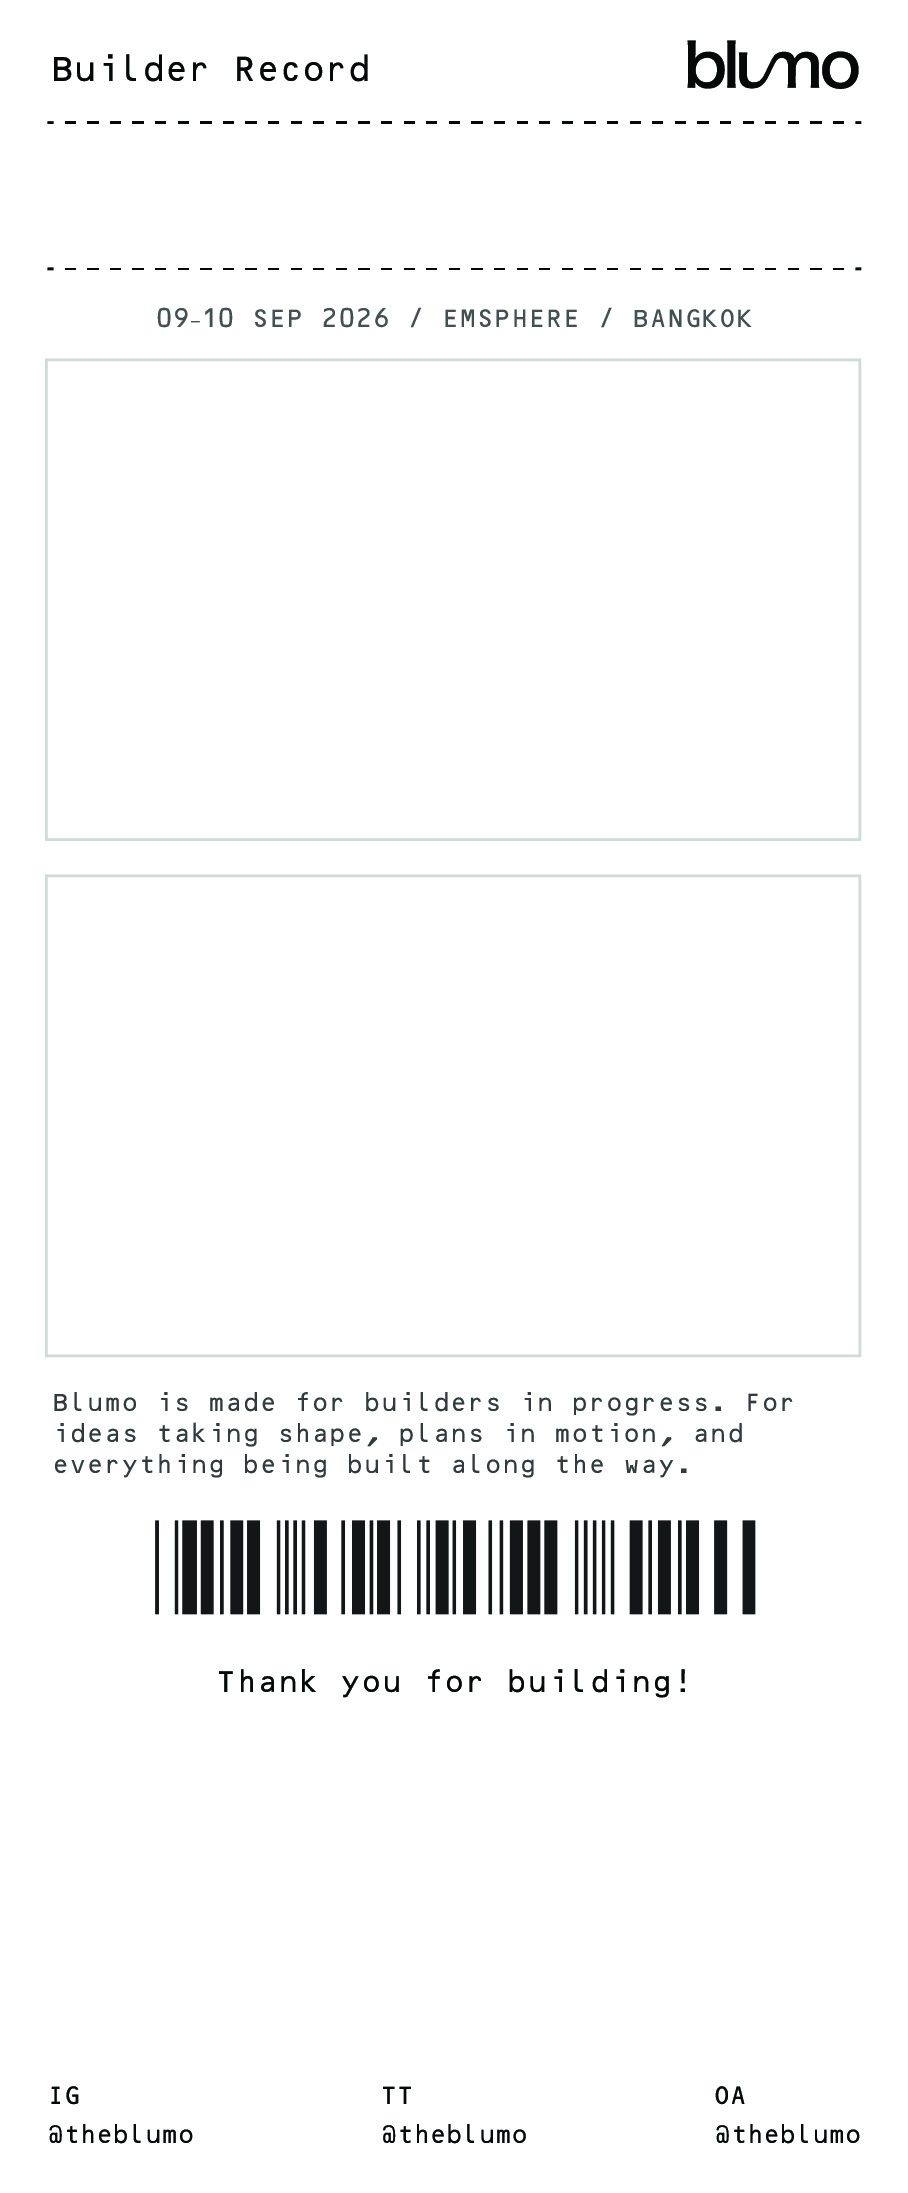
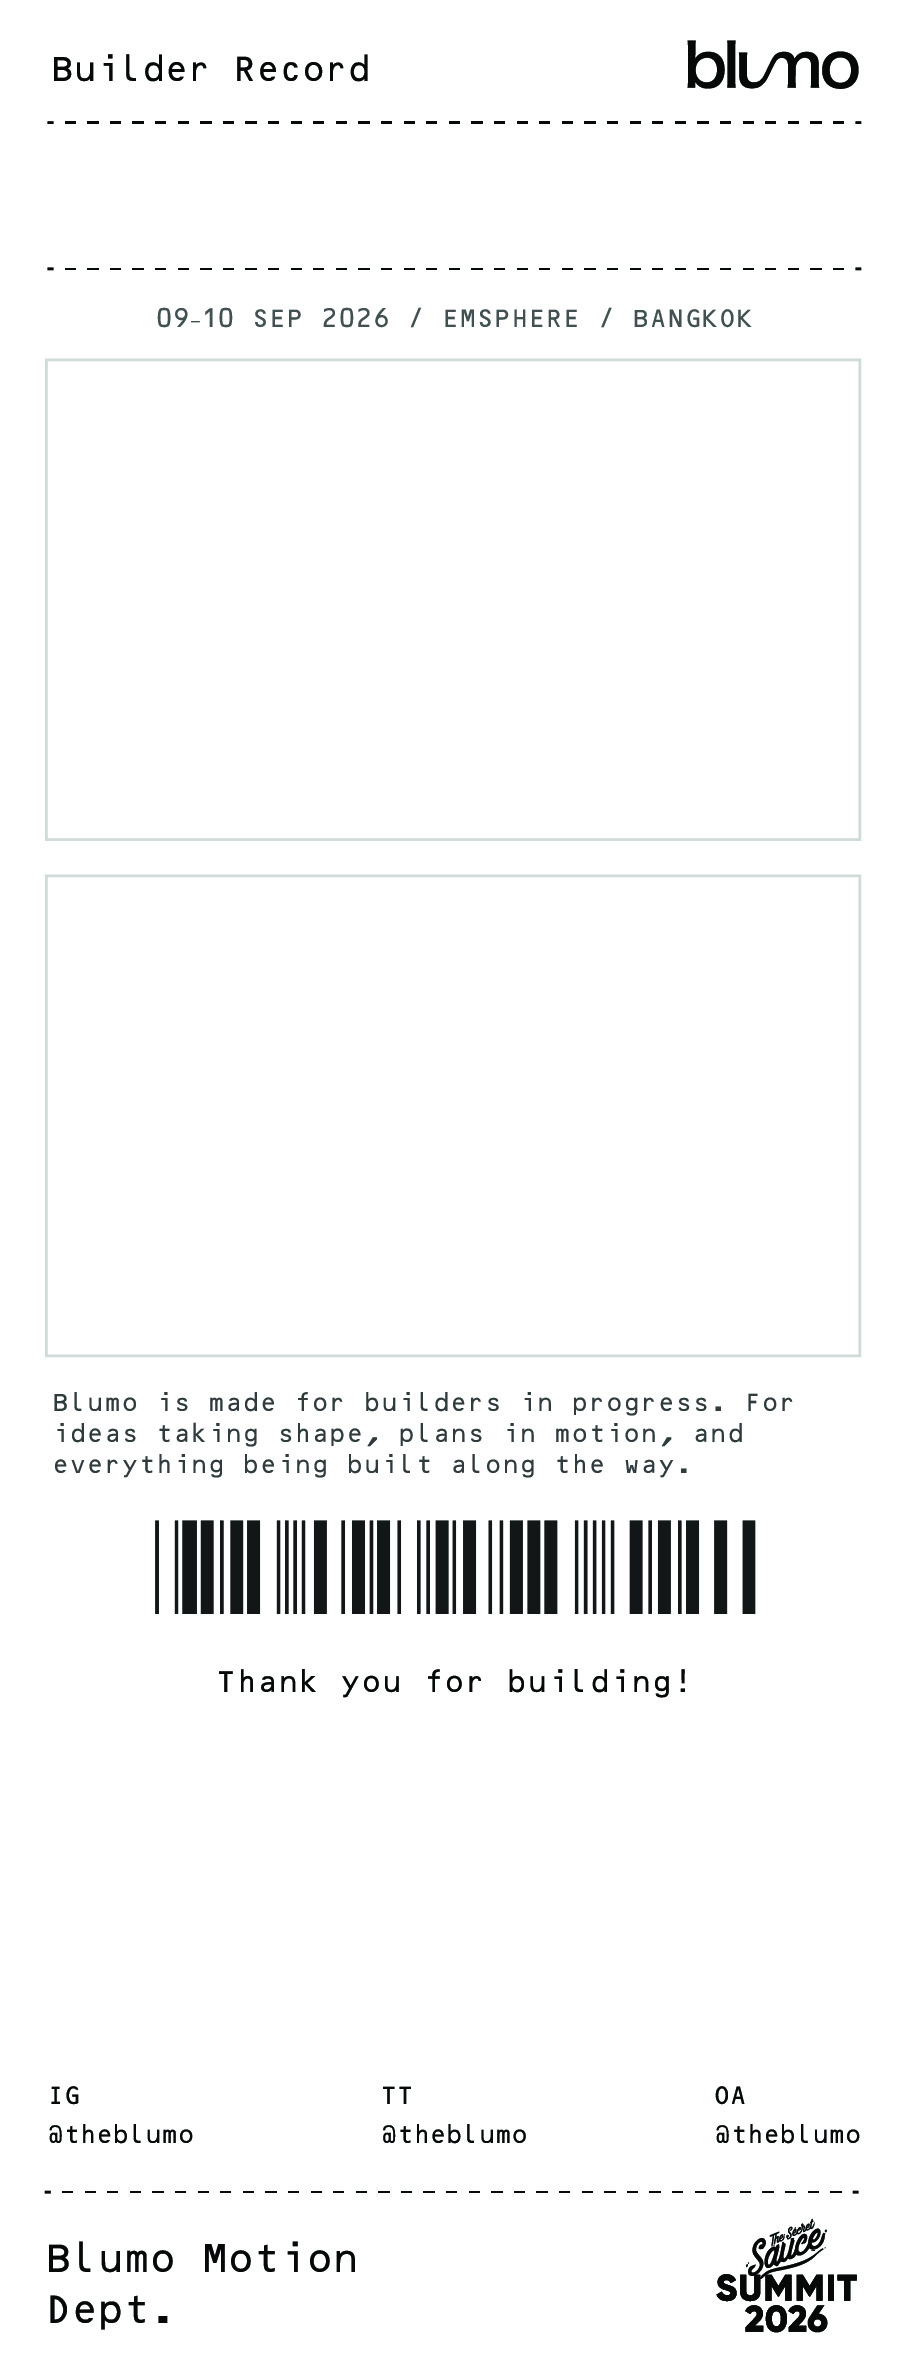
Release The Blumo v1.4 with unified preview/print overlays and taller artwork.
Print now uses the same name, photo, and QR slot settings as preview with only the frame-select background differing, including QR vertical scaling and shared overlay compositing.

diff --git a/frontend/js/composite.js b/frontend/js/composite.js
@@ -70,13 +70,32 @@ function getPhotoSlotBleed(canvasWidth) {
 
 function resolveSlotForDraw(slot, previewMode = false) {
   if (!previewMode) return slot;
+  const top = slot.previewTop ?? slot.top;
+  const height = slot.previewHeight ?? slot.height;
+  const scaleV =
+    typeof scalePreviewMockVerticalPct === "function"
+      ? scalePreviewMockVerticalPct
+      : (pct) => pct;
   return {
     ...slot,
     left: slot.previewLeft ?? slot.left,
-    top: slot.previewTop ?? slot.top,
+    top: scaleV(top),
     width: slot.previewWidth ?? slot.width,
-    height: slot.previewHeight ?? slot.height,
+    height: scaleV(height),
   };
+}
+
+function getPreviewContentShiftPct(previewMode) {
+  if (!previewMode) return 0;
+  return typeof getTheBlumoPreviewContentShiftUpPct === "function"
+    ? getTheBlumoPreviewContentShiftUpPct()
+    : 0;
+}
+
+function getPreviewQrShiftPct() {
+  return typeof getTheBlumoPreviewQrShiftUpPct === "function"
+    ? getTheBlumoPreviewQrShiftUpPct()
+    : 0;
 }
 
 function slotToDrawRect(
@@ -85,14 +104,16 @@ function slotToDrawRect(
   canvasHeight,
   offsetX = 0,
   offsetY = 0,
-  layoutReference = null
+  layoutReference = null,
+  previewShiftPct = 0
 ) {
   const refW = layoutReference?.width ?? canvasWidth;
   const refH = layoutReference?.height ?? canvasHeight;
   let x = (slot.left / 100) * refW + offsetX;
-  let y = (slot.top / 100) * refH + offsetY;
+  let y = (slot.top / 100) * refH + offsetY - (previewShiftPct / 100) * refH;
   let w = (slot.width / 100) * refW;
   let h = (slot.height / 100) * refH;
+  y = Math.max(0, y);
 
   const canBleed = slot.fit !== "contain" && !slot.noBleed;
   if (canBleed) {
@@ -388,13 +409,15 @@ async function drawPhotosInSlots(
     const photo = await loadImage(photos[i]);
     const drawSlot = resolveSlotForDraw(slot, options.previewMode);
     const slotOffsetY = options.slotOffsetY || 0;
+    const shiftPct = getPreviewContentShiftPct(options.previewMode);
     const { x, y, w, h } = slotToDrawRect(
       drawSlot,
       canvasWidth,
       canvasHeight,
       0,
       slotOffsetY,
-      options.layoutReference
+      options.layoutReference,
+      shiftPct
     );
     const rotation = slot.rotation || 0;
     const fit = drawSlot.fit || "cover";
@@ -456,14 +479,24 @@ async function drawTheBlumoGuestName(ctx, canvasWidth, canvasHeight, offsetY = 0
       : null;
   if (!slot) return;
 
-  const topPct =
+  const topPctRaw =
     options.previewMode && slot.previewTop != null ? slot.previewTop : slot.top;
-  const heightPct =
+  const heightPctRaw =
     options.previewMode && slot.previewHeight != null ? slot.previewHeight : slot.height;
+  const scaleV =
+    options.previewMode && typeof scalePreviewMockVerticalPct === "function"
+      ? scalePreviewMockVerticalPct
+      : (pct) => pct;
+  const topPct = scaleV(topPctRaw);
+  const heightPct = scaleV(heightPctRaw);
   const refW = options.layoutReference?.width ?? canvasWidth;
   const refH = options.layoutReference?.height ?? canvasHeight;
+  const shiftPct = getPreviewContentShiftPct(options.previewMode);
   let x = (slot.left / 100) * refW;
-  const y = (topPct / 100) * refH + offsetY;
+  let y = Math.max(
+    0,
+    (topPct / 100) * refH + offsetY - (shiftPct / 100) * refH
+  );
   let w = (slot.width / 100) * refW;
   const h = (heightPct / 100) * refH;
 
@@ -530,10 +563,16 @@ async function drawTheBlumoPreviewQR(ctx, layoutId, qrDataUrl, canvasWidth, canv
 
   const refW = layoutReference?.width ?? canvasWidth;
   const refH = layoutReference?.height ?? canvasHeight;
+  const shiftPct = getPreviewQrShiftPct();
+  const scaleV =
+    typeof scalePreviewMockVerticalPct !== "function"
+      ? (pct) => pct
+      : scalePreviewMockVerticalPct;
   const slotX = (slot.left / 100) * refW;
-  const slotY = (slot.top / 100) * refH;
+  const slotTopPct = scaleV(slot.top);
+  const slotY = Math.max(0, (slotTopPct / 100) * refH - (shiftPct / 100) * refH);
   const slotW = (slot.width / 100) * refW;
-  const slotH = ((slot.height ?? slot.width) / 100) * refH;
+  const slotH = ((scaleV(slot.height ?? slot.width)) / 100) * refH;
   const scale = slot.scale ?? 1;
   const size = Math.min(slotW, slotH) * scale;
   const x = slotX + (slotW - size) / 2;
@@ -598,6 +637,41 @@ async function uploadPreviewDownloadInBackground(canvas, downloadId) {
   }
 }
 
+async function drawTheBlumoPreviewOverlays(
+  ctx,
+  frameConfig,
+  photos,
+  canvasWidth,
+  canvasHeight,
+  options = {}
+) {
+  const layoutReference = options.layoutReference ?? null;
+  const drawPhotoFn = options.drawPhotoFn ?? drawImageCover;
+
+  await drawTheBlumoGuestName(ctx, canvasWidth, canvasHeight, options.offsetY ?? 0, {
+    eraseBackground: options.eraseBackground ?? false,
+    previewMode: true,
+    frameConfig,
+    layoutReference,
+  });
+  await drawPhotosInSlots(ctx, frameConfig, photos, canvasWidth, canvasHeight, drawPhotoFn, {
+    previewMode: true,
+    layoutReference,
+    slotOffsetY: options.slotOffsetY ?? 0,
+  });
+
+  if (PREVIEW_QR_ON_RECEIPT_ENABLED && options.qrCodeUrl) {
+    await drawTheBlumoPreviewQR(
+      ctx,
+      frameConfig.id,
+      options.qrCodeUrl,
+      canvasWidth,
+      canvasHeight,
+      layoutReference
+    );
+  }
+}
+
 async function drawFrameAndPhotos(ctx, frameConfig, photos, canvasWidth, canvasHeight, options = {}) {
   const usePreviewSlots = Boolean(options.usePreviewSlots ?? options.useLayoutMock);
 
@@ -610,6 +684,18 @@ async function drawFrameAndPhotos(ctx, frameConfig, photos, canvasWidth, canvasH
 
   const frameImg = await loadImage(frameSrc);
   ctx.drawImage(frameImg, 0, 0, canvasWidth, canvasHeight);
+
+  if (
+    usePreviewSlots &&
+    typeof isTheBlumoBoothActive === "function" &&
+    isTheBlumoBoothActive()
+  ) {
+    await drawTheBlumoPreviewOverlays(ctx, frameConfig, photos, canvasWidth, canvasHeight, {
+      eraseBackground: options.eraseGuestNameBackground !== false,
+      qrCodeUrl: options.qrCodeUrl,
+    });
+    return;
+  }
 
   await drawTheBlumoGuestName(ctx, canvasWidth, canvasHeight, 0, {
     eraseBackground: options.eraseGuestNameBackground !== false,
@@ -897,27 +983,18 @@ async function drawTheBlumoPrintComposite(canvas, frameConfig, photos, options =
   const frameImg = await loadImage(frameSrc);
   const frameW = frameImg.naturalWidth;
   const frameH = frameImg.naturalHeight;
-  const drawPhotoFn = thermal ? drawImageCoverForPrint : drawImageCover;
 
   canvas.width = frameW;
   canvas.height = frameH;
   const ctx = canvas.getContext("2d");
   ctx.drawImage(frameImg, 0, 0);
 
-  await drawTheBlumoGuestName(ctx, frameW, frameH, 0, {
+  await drawTheBlumoPreviewOverlays(ctx, frameConfig, photos, frameW, frameH, {
+    layoutReference: layoutRef,
+    drawPhotoFn: thermal ? drawImageCoverForPrint : drawImageCover,
+    qrCodeUrl,
     eraseBackground: false,
-    previewMode: true,
-    frameConfig,
-    layoutReference: layoutRef,
   });
-  await drawPhotosInSlots(ctx, frameConfig, photos, frameW, frameH, drawPhotoFn, {
-    previewMode: true,
-    layoutReference: layoutRef,
-  });
-
-  if (PREVIEW_QR_ON_RECEIPT_ENABLED && qrCodeUrl) {
-    await drawTheBlumoPreviewQR(ctx, frameConfig.id, qrCodeUrl, frameW, frameH, layoutRef);
-  }
 
   console.info(
     `[composite] theblumo frame-select full ${frameW}x${frameH} thermal=${thermal} previewSlots=true src=${frameSrc}`
@@ -964,24 +1041,16 @@ async function drawComposite(canvas, frameConfig, photos, options = {}) {
     usePreviewSlots: useLayoutMock,
     frameSrc,
     eraseGuestNameBackground: !useLayoutMock,
+    qrCodeUrl:
+      isPreview &&
+      PREVIEW_QR_ON_RECEIPT_ENABLED &&
+      options.qrCodeUrl &&
+      useLayoutMock &&
+      typeof isTheBlumoBoothActive === "function" &&
+      isTheBlumoBoothActive()
+        ? options.qrCodeUrl
+        : null,
   });
-
-  if (
-    isPreview &&
-    PREVIEW_QR_ON_RECEIPT_ENABLED &&
-    options.qrCodeUrl &&
-    useLayoutMock &&
-    typeof isTheBlumoBoothActive === "function" &&
-    isTheBlumoBoothActive()
-  ) {
-    await drawTheBlumoPreviewQR(
-      ctx,
-      frameConfig.id,
-      options.qrCodeUrl,
-      canvas.width,
-      canvas.height
-    );
-  }
 
   if (isPreview && isTheBlumoBoothActive?.() && !useLayoutMock) {
     const cropH = getTheBlumoCropHeight(canvas.height, frameConfig.id);
@@ -1031,15 +1100,10 @@ async function renderTheBlumoReceiptLayer(frameConfig, photos, options = {}) {
   const fullCtx = full.getContext("2d");
   fullCtx.drawImage(frameImg, 0, 0);
 
-  await drawTheBlumoGuestName(fullCtx, frameW, frameH, 0, {
+  await drawTheBlumoPreviewOverlays(fullCtx, frameConfig, photos, frameW, frameH, {
+    layoutReference: layoutRef,
+    drawPhotoFn,
     eraseBackground: false,
-    previewMode: true,
-    frameConfig,
-    layoutReference: layoutRef,
-  });
-  await drawPhotosInSlots(fullCtx, frameConfig, photos, frameW, frameH, drawPhotoFn, {
-    previewMode: true,
-    layoutReference: layoutRef,
   });
 
   const cropH = layoutRef.height;

diff --git a/frontend/js/frames.js b/frontend/js/frames.js
@@ -18,6 +18,27 @@ const THE_BLUMO_PRINT_CROP_BOTTOM_PCT = {
   "Layout-2": 61.3,
 };
 
+/**
+ * Preview mock (layoutN-theblumo.jpg) — artboard extended at bottom only.
+ * Frame/name/QR stay the same size & distance from top in Illustrator;
+ * only total export height changed 2193 → 2360 px (width still 908).
+ * Slot values below are % on the OLD mock; scalePreviewMockVerticalPct
+ * converts top/height to equivalent % on the taller mock (same px).
+ */
+const THE_BLUMO_PREVIEW_MOCK_HEIGHT_OLD = 2193;
+const THE_BLUMO_PREVIEW_MOCK_HEIGHT_NEW = 2360;
+const THE_BLUMO_PREVIEW_MOCK_V_SCALE =
+  THE_BLUMO_PREVIEW_MOCK_HEIGHT_OLD / THE_BLUMO_PREVIEW_MOCK_HEIGHT_NEW;
+
+/** oldMockPct × (2193/2360) → same pixel top/height on taller preview mock */
+function scalePreviewMockVerticalPct(pct) {
+  return pct * THE_BLUMO_PREVIEW_MOCK_V_SCALE;
+}
+
+/** Extra preview nudge — 0 when positions come from Illustrator px match */
+const THE_BLUMO_PREVIEW_CONTENT_SHIFT_UP_PCT = 0;
+const THE_BLUMO_PREVIEW_QR_SHIFT_UP_PCT = 0;
+
 /** Guest name overlay — replaces baked-in "Mun" on TheBlumo artwork */
 const THE_BLUMO_GUEST_NAME_SLOT = {
   left: 4,
@@ -72,7 +93,7 @@ const THE_BLUMO_FRAME_SLOTS = {
         previewWidth: 89.67,
         previewHeight: 21.97,
         fit: "cover",
-        noBleed: false,
+        noBleed: true,
       },
       {
         left: 6.34,
@@ -84,7 +105,7 @@ const THE_BLUMO_FRAME_SLOTS = {
         previewWidth: 89.67,
         previewHeight: 21.88,
         fit: "cover",
-        noBleed: false,
+        noBleed: true,
       },
     ],
   },
@@ -293,6 +314,9 @@ window.isTheBlumoLayout = isTheBlumoLayout;
 window.isTheBlumoBoothActive = isTheBlumoBoothActive;
 window.getTheBlumoPreviewBottomPct = getTheBlumoPreviewBottomPct;
 window.getTheBlumoPrintCropBottomPct = getTheBlumoPrintCropBottomPct;
+window.scalePreviewMockVerticalPct = scalePreviewMockVerticalPct;
+window.getTheBlumoPreviewContentShiftUpPct = () => THE_BLUMO_PREVIEW_CONTENT_SHIFT_UP_PCT;
+window.getTheBlumoPreviewQrShiftUpPct = () => THE_BLUMO_PREVIEW_QR_SHIFT_UP_PCT;
 window.getTheBlumoGuestNameSlot = () => THE_BLUMO_GUEST_NAME_SLOT;
 window.getTheBlumoPreviewQrSlot = (layoutId) =>
   THE_BLUMO_PREVIEW_QR_SLOT[layoutId] || null;

diff --git a/frontend/index.html b/frontend/index.html
@@ -394,7 +394,7 @@
     <script src="js/booth-settings.js?v=booth190"></script>
     <script src="js/booth-storage.js?v=booth190"></script>
     <script src="js/layouts.js?v=booth207"></script>
-    <script src="js/frames.js?v=booth223"></script>
+    <script src="js/frames.js?v=booth229"></script>
     <script src="js/navigation.js?v=booth190"></script>
     <script src="js/kiosk.js?v=booth200"></script>
     <script src="js/payment.js?v=booth190"></script>
@@ -402,7 +402,7 @@
     <script src="js/escpos.js"></script>
     <script src="js/thermer.js"></script>
     <script src="js/native-print.js?v=booth190"></script>
-    <script src="js/composite.js?v=booth224"></script>
+    <script src="js/composite.js?v=booth231"></script>
     <script src="js/camera.js?v=booth207"></script>
     <script src="js/app.js?v=booth190"></script>
   </body>
